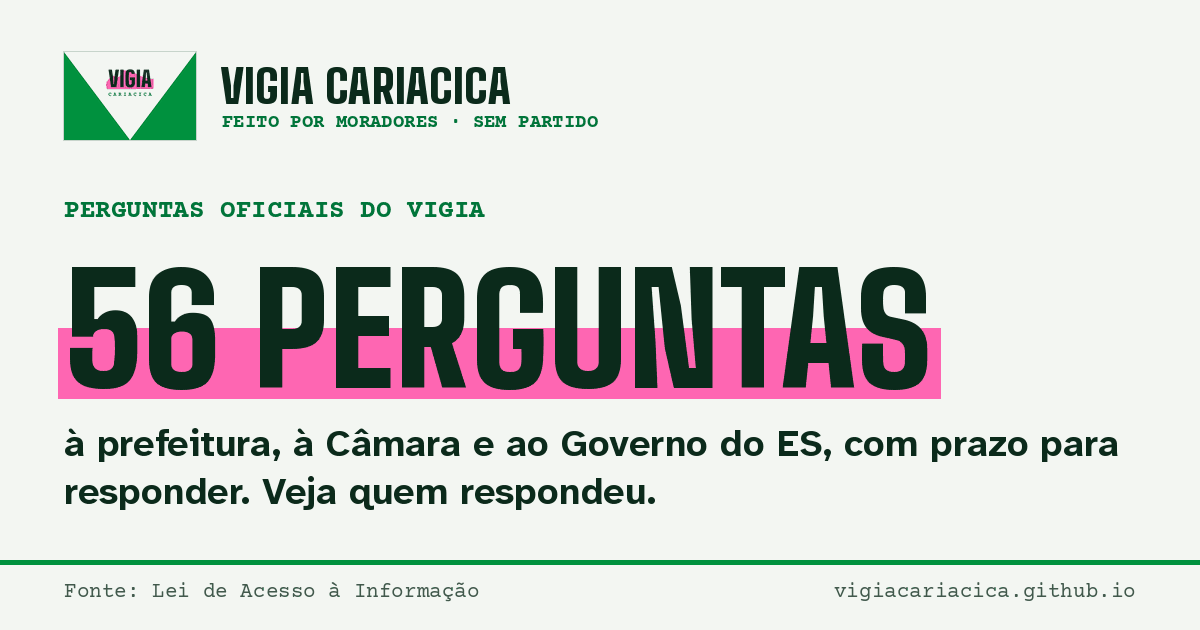
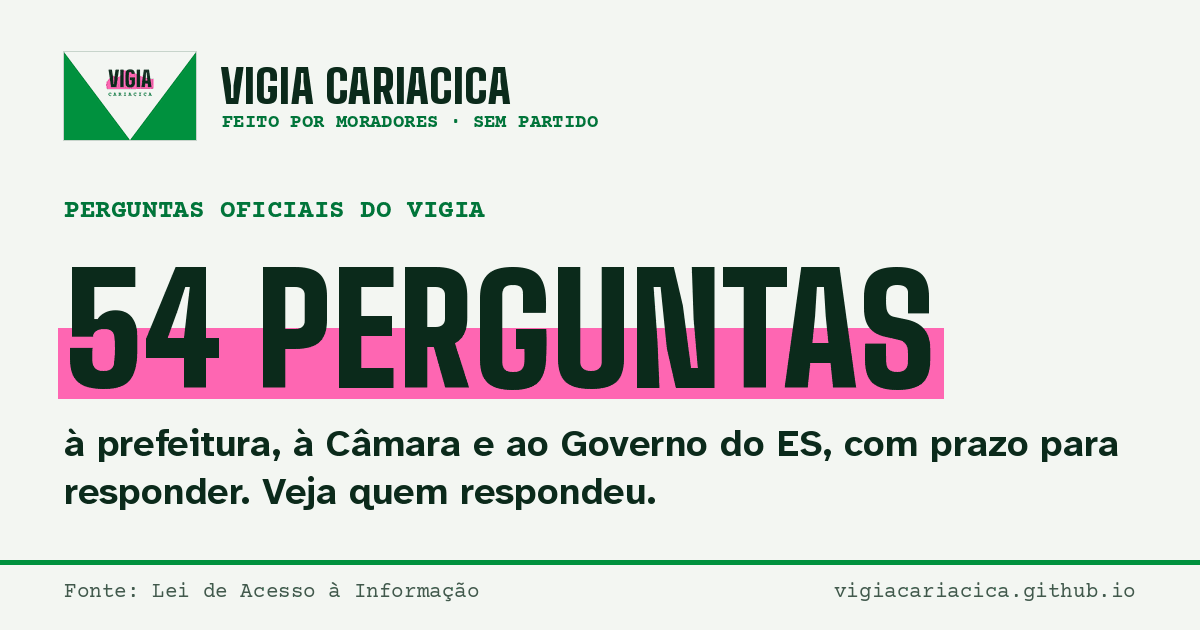
site: perguntas contadas uma vez cada (a mesma pergunta a dois órgãos conta uma vez), resposta incompleta como 'respondida só em parte'
Claude-Session: https://claude.ai/code/session_01AeZjVU4VychRwJ9j8fFYkP

diff --git a/perguntas/index.html b/perguntas/index.html
@@ -4,16 +4,16 @@
 <meta charset="utf-8">
 <meta name="viewport" content="width=device-width,initial-scale=1,viewport-fit=cover">
 <title>O que perguntamos à prefeitura · Vigia Cariacica</title>
-<meta name="description" content="56 perguntas oficiais à prefeitura e à Câmara de Cariacica, com prazo e resposta.">
+<meta name="description" content="54 perguntas oficiais à prefeitura e à Câmara de Cariacica, com prazo e resposta.">
 <meta name="robots" content="index,follow,max-image-preview:large"><meta property="og:type" content="website">
 <meta property="og:site_name" content="Vigia Cariacica">
 <meta property="og:title" content="O que perguntamos à prefeitura">
-<meta property="og:description" content="56 perguntas oficiais à prefeitura e à Câmara de Cariacica, com prazo e resposta.">
+<meta property="og:description" content="54 perguntas oficiais à prefeitura e à Câmara de Cariacica, com prazo e resposta.">
 <meta property="og:url" content="https://vigiacariacica.github.io/perguntas/">
 <meta property="og:image" content="https://vigiacariacica.github.io/previas/perguntas.png">
 <meta property="og:image:width" content="1200">
 <meta property="og:image:height" content="630">
-<meta property="og:image:alt" content="Perguntas oficiais do Vigia: 56 perguntas à prefeitura, à Câmara e ao Governo do ES, com prazo para responder. Veja quem respondeu.">
+<meta property="og:image:alt" content="Perguntas oficiais do Vigia: 54 perguntas à prefeitura, à Câmara e ao Governo do ES, com prazo para responder. Veja quem respondeu.">
 <meta property="og:locale" content="pt_BR">
 <meta name="twitter:card" content="summary_large_image">
 <meta name="theme-color" content="#00923f">
@@ -77,13 +77,13 @@
 </section>
 
 <div class="placar">
-  <div><b class="num">56</b><span>perguntas feitas</span></div>
+  <div><b class="num">54</b><span>perguntas feitas</span></div>
 <div><b class="num">3</b><span>respondidas só em parte</span></div>  <div><b class="num">0</b><span>atrasadas, sem resposta</span></div>
 </div>
-<p class="lead">Próximo prazo: 27/11, para 14 perguntas que ainda esperam resposta.</p>
+<p class="lead">Próximo prazo: 27/11, para 13 perguntas que ainda esperam resposta.</p>
 <div class="bloco" style="gap:0">
   <details class="grupo" open>
-    <summary><b>Prazo 27/11</b><span><span class="falta" data-prazo="2026-11-27">faltam 13 dias</span> · 15 perguntas</span></summary>
+    <summary><b>Prazo 27/11</b><span><span class="falta" data-prazo="2026-11-27">faltam 13 dias</span> · 13 perguntas</span></summary>
     <div class="peds">
     <div class="ped">
 <span class="selo neutro">Esperando resposta</span>      <p>Algum servidor da prefeitura é sócio de empresa que vende para ela?</p>
@@ -333,7 +333,7 @@
   </div>
   <p class="miuda" id="copiado" role="status"></p>
 </section>
-<p class="fonte">Fonte: números de registro do Vigia no sistema de pedidos da Prefeitura e da Câmara de Cariacica e do Governo do ES. Prazo de 20 dias corridos (Lei 12.527/2011, art. 11); 30 dias na Ouvidoria. Prazo que cai no fim de semana passa para a segunda-feira.</p>
+<p class="fonte">São 56 pedidos: algumas perguntas foram mandadas a mais de um órgão, e cada uma conta uma vez. Fonte: números de registro do Vigia no sistema de pedidos da Prefeitura e da Câmara de Cariacica e do Governo do ES. Prazo de 20 dias corridos (Lei 12.527/2011, art. 11); 30 dias na Ouvidoria. Prazo que cai no fim de semana passa para a segunda-feira.</p>
 </main>
 <footer class="rodape">
   <img src="/bandeira.svg" alt="Bandeira de Cariacica com o nome Vigia no lugar do brasão" width="180" height="120">

diff --git a/index.html b/index.html
@@ -212,7 +212,7 @@
   <div class="grade-3">
     <a class="porta" href="/problemas/"><span class="cat"><svg class="ic" viewBox="0 0 24 24" aria-hidden="true" focusable="false"><path d="M12 3 19 6v5.5c0 4.3-3 7.6-7 9.5-4-1.9-7-5.2-7-9.5V6z"/></svg><span>Cariacica</span></span><b>Os maiores problemas</b><span class="t">Fila, esgoto, escola, violência e mais. O número e o que já perguntamos.</span><span class="seta" aria-hidden="true">→</span></a>
     <a class="porta" href="/fila/"><span class="cat"><svg class="ic" viewBox="0 0 24 24" aria-hidden="true" focusable="false"><path d="M9 3h6v6h6v6h-6v6H9v-6H3V9h6z"/></svg><span>Saúde</span></span><b>A fila do seu posto</b><span class="t">40.829 consultas e exames esperam vaga. Veja o seu posto.</span><span class="seta" aria-hidden="true">→</span></a>
-    <a class="porta" href="/perguntas/"><span class="cat"><svg class="ic" viewBox="0 0 24 24" aria-hidden="true" focusable="false"><path d="M12 21a9 9 0 1 0 0-18 9 9 0 0 0 0 18zM9.5 9.3a2.6 2.6 0 0 1 5 1c0 1.8-2.5 2.2-2.5 4M12 17.2v.01"/></svg><span>Perguntas</span></span><b>O que perguntamos</b><span class="t">56 perguntas à prefeitura e à Câmara. Veja quem já respondeu.</span><span class="seta" aria-hidden="true">→</span></a>
+    <a class="porta" href="/perguntas/"><span class="cat"><svg class="ic" viewBox="0 0 24 24" aria-hidden="true" focusable="false"><path d="M12 21a9 9 0 1 0 0-18 9 9 0 0 0 0 18zM9.5 9.3a2.6 2.6 0 0 1 5 1c0 1.8-2.5 2.2-2.5 4M12 17.2v.01"/></svg><span>Perguntas</span></span><b>O que perguntamos</b><span class="t">54 perguntas à prefeitura e à Câmara. Veja quem já respondeu.</span><span class="seta" aria-hidden="true">→</span></a>
     <a class="porta" href="/dinheiro/"><span class="cat"><svg class="ic" viewBox="0 0 24 24" aria-hidden="true" focusable="false"><path d="M3 7h18v10H3zM12 15a3 3 0 1 0 0-6 3 3 0 0 0 0 6zM6 10v.01M18 14v.01"/></svg><span>Dinheiro</span></span><b>Para onde vai o dinheiro</b><span class="t">É como se a prefeitura gastasse R$ 369 por mês com cada morador. Veja em quê.</span><span class="seta" aria-hidden="true">→</span></a>
     <a class="porta" href="/vereadores/"><span class="cat"><svg class="ic" viewBox="0 0 24 24" aria-hidden="true" focusable="false"><path d="M3 9.5 12 4l9 5.5M5 10v8M9.7 10v8M14.3 10v8M19 10v8M3 19.5h18"/></svg><span>Câmara</span></span><b>O que fizeram os vereadores</b><span class="t">Os projetos de cada um, do que muda a vida ao simbólico. E a conta.</span><span class="seta" aria-hidden="true">→</span></a>
     <a class="porta" href="/mapa/"><span class="cat"><svg class="ic" viewBox="0 0 24 24" aria-hidden="true" focusable="false"><path d="M9 4 3 6.5v13.5l6-2.5 6 2.5 6-2.5V4l-6 2.5zM9 4v13.5M15 6.5V20"/></svg><span>Mapa</span></span><b>Onde mora a gente</b><span class="t">349.104 pessoas em 99 bairros. Veja no mapa onde é mais apertado e onde falta esgoto.</span><span class="seta" aria-hidden="true">→</span></a>
